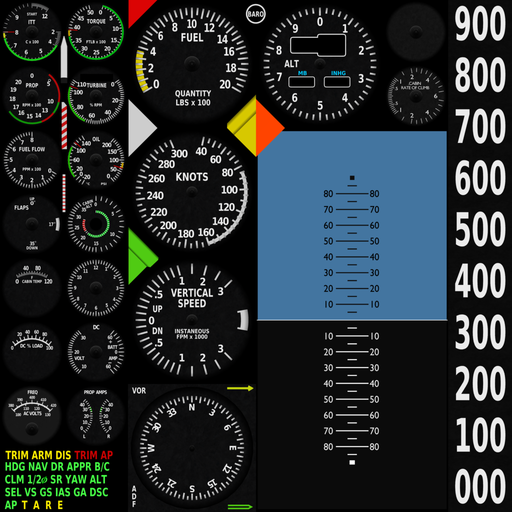
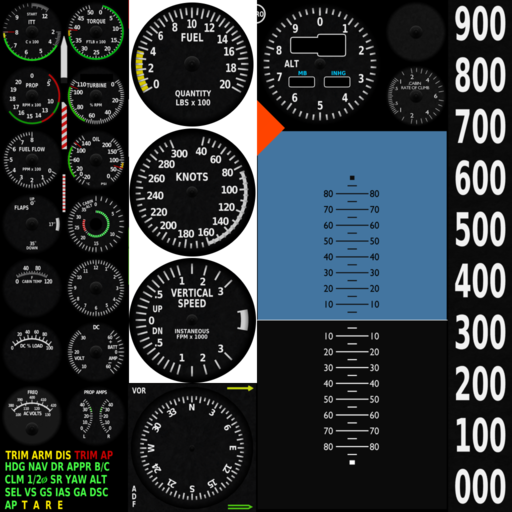
Bug fixing after testing on a smaller screen. Cleaning the information messages.

diff --git a/FlightGearMap/src/com/juanvvc/flightgear/PanelListActivity.java b/FlightGearMap/src/com/juanvvc/flightgear/PanelListActivity.java
@@ -75,7 +75,7 @@ public class PanelListActivity extends Activity implements OnItemClickListener{
 	private static final boolean DEBUG_VERSION = true;
 	
 	// List of thumbnails of the distributions
-	private static final int[] THUMBS = {R.drawable.dist_simplemap, R.drawable.dist_onlymap, R.drawable.dist_c172, R.drawable.dist_c337, R.drawable.dist_c337, R.drawable.dist_comms, R.drawable.dist_single, R.drawable.dist_basic};
+	private static final int[] THUMBS = {R.drawable.dist_simplemap, R.drawable.dist_onlymap, R.drawable.dist_c172, R.drawable.dist_c337, R.drawable.dist_b1900d, R.drawable.dist_comms, R.drawable.dist_single, R.drawable.dist_basic};
 	// List of labels
 	private static final int[] THUMBS_LABELS = {R.string.dist_simplemap, R.string.dist_onlymap, R.string.dist_c172, R.string.dist_c337, R.string.dist_b1900d, R.string.dist_comms, R.string.single_instrument, R.string.basic_instruments};
 
@@ -242,10 +242,10 @@ public class PanelListActivity extends Activity implements OnItemClickListener{
         WifiInfo wifiInfo = wifiManager.getConnectionInfo();
         int ipAddress = wifiInfo.getIpAddress();
         
-        StringBuffer txt = new StringBuffer("");
+        String txt = null;
         
         if (ipAddress == 0) {
-        	txt.append(getString(R.string.network_not_detected));
+        	txt = getString(R.string.network_not_detected);
         } else {
         	// convert Ip to a readable IP
 	        String readableIP = String.format("%d.%d.%d.%d",
@@ -255,13 +255,14 @@ public class PanelListActivity extends Activity implements OnItemClickListener{
 	        		(ipAddress >> 24 & 0xff));
 	        
 	        // add information about my IP
-	        txt.append(getString(R.string.myip).replaceFirst("%", readableIP));
+	        txt = getString(R.string.myip).replaceFirst("%", readableIP);
         }
         
         TextView tv = (TextView) this.findViewById(R.id.ipinfo);
-        tv.setText(txt);
         // clickable links
     	tv.setMovementMethod(LinkMovementMethod.getInstance());
+        tv.setText(txt);
+        MyLog.i(this, txt);
 	}
 	
 	/** The Adapter of the available distributions */

diff --git a/FlightGearMap/src/com/juanvvc/flightgear/PanelActivity.java b/FlightGearMap/src/com/juanvvc/flightgear/PanelActivity.java
@@ -35,6 +35,7 @@ import com.juanvvc.flightgear.maps.DatabaseHelper;
 import com.juanvvc.flightgear.maps.MapOverlay;
 import com.juanvvc.flightgear.maps.SolidTileSource;
 import com.juanvvc.flightgear.panels.PanelView;
+import com.juanvvc.flightgear.panels.PanelView.Distribution;
 
 /** Shows a panel with only instruments.
  * @author juanvi
@@ -72,6 +73,8 @@ public class PanelActivity extends Activity {
 	private boolean show_airports = true;
 	/** If set, show the navaids on the map */
 	private boolean show_navaids = true;
+	/** The configuration file in the remote fgfs */
+	private String andatlas = "andatlas";
 	
     /** Called when the activity is first created. */
     @Override
@@ -309,6 +312,13 @@ public class PanelActivity extends Activity {
     	panelView.setVisibility(View.VISIBLE);
     	panelView.setDistribution(this.distribution);
     	panelView.invalidate();
+    	
+    	// Select the configuration file
+    	if (this.distribution == Distribution.B1900D_INSTRUMENTS) {
+    		andatlas = "andatlas-b1900d";
+    	} else {
+    		andatlas = "andatlas";
+    	}
 
     	if (this.calibratableManager != null) {
     		this.calibratableManager.empty();
@@ -569,7 +579,7 @@ public class PanelActivity extends Activity {
 			        		(ipAddress >> 24 & 0xff));
 			        
 			        // add information about fgfs+++
-			        txt = txt + getString(R.string.run_fgfs_using) + " --generic=socket,out,10," + readableIP + "," + udpPort + ",udp,andatlas --telnet=" + telnetPort;
+			        txt = txt + getString(R.string.run_fgfs_using) + " --generic=socket,out,10," + readableIP + "," + udpPort + ",udp," + andatlas + " --telnet=socket,in,20,," + telnetPort + ",tcp";
 			        
 			        // show the dialog on screen
 					currentDialog = new AlertDialog.Builder(PanelActivity.this).setIcon(R.drawable.ic_launcher)

diff --git a/FlightGearMap/src/com/juanvvc/flightgear/panels/Cessna172.java b/FlightGearMap/src/com/juanvvc/flightgear/panels/Cessna172.java
@@ -9,6 +9,7 @@ import android.graphics.Canvas;
 import android.graphics.Color;
 import android.graphics.Matrix;
 import android.graphics.Paint;
+import android.graphics.Paint.Align;
 import android.graphics.Rect;
 import android.graphics.Typeface;
 import android.preference.PreferenceManager;
@@ -167,7 +168,7 @@ public class Cessna172 {
 			return new Instrument(col, row, context, new Surface[] {
 					new StaticSurface(new MyBitmap("dme.png", 0, 0, 512, 216), 0, 0),
 					new DMENumber(null, 10, 120, PlaneData.DME, face),
-					new DMENumber(null, 228, 120, PlaneData.DME_SPEED, face)
+					new DMENumber(null, 240, 120, PlaneData.DME_SPEED, face)
 			});
 		case MAGNETS_STARTER:
 			return new Instrument(col, row, context, new Surface[] {
@@ -198,7 +199,7 @@ public class Cessna172 {
 		case CLOCK:
 			return new Instrument(col, row, context, new Surface[] {
 					new StaticSurface(new MyBitmap("clock.png", -1, -1, -1, -1), 0, 20),
-					new ClockNumber(null, PlaneData.SECONDS, 40, 120, face)
+					new ClockNumber(null, PlaneData.SECONDS, 256, 120, face)
 			});
 		default:
 			MyLog.w(Cessna172.class.getSimpleName(), "Instrument not available: " + type);
@@ -597,6 +598,7 @@ class ClockNumber extends StaticSurface {
 		font.setColor(Color.RED);
 		font.setTypeface(this.face);
 		font.setTextSize((parent.getScale() * parent.getGridSize()) / 16); // 8); //bitmap.getScaledBitmap().getHeight());
+		font.setTextAlign(Align.CENTER);
 		
 		sb = new StringBuffer();
 	}

diff --git a/FlightGearMap/src/com/juanvvc/flightgear/CommsActivity.java b/FlightGearMap/src/com/juanvvc/flightgear/CommsActivity.java
@@ -546,7 +546,7 @@ public class CommsActivity extends Activity implements OnClickListener {
 									}).show();
 				} else {
 					// add information about fgfs+++
-					txt = txt + getString(R.string.run_fgfs_using) + " --telnet=" + telnetPort;
+					txt = txt + getString(R.string.run_fgfs_using) + " --telnet=socket,in,20,," + telnetPort + ",tcp";
 
 					// show the dialog on screen
 					currentDialog = new AlertDialog.Builder(CommsActivity.this)

diff --git a/FlightGearMap/src/com/juanvvc/flightgear/panels/B1900D.java b/FlightGearMap/src/com/juanvvc/flightgear/panels/B1900D.java
@@ -127,6 +127,9 @@ public class B1900D {
 		instruments.add(B1900D.createInstrument(InstrumentType.FUELFLOW, context, 4, 2));
 		instruments.add(B1900D.createInstrument(InstrumentType.OIL_PRESS, context, 4, 2.5f));
 		
+		instruments.add(Cessna172.createInstrument(InstrumentType.TURN_RATE, context, 1, 2));
+		instruments.add(Cessna172.createInstrument(InstrumentType.TRIMFLAPS, context, 3, 2.5f));
+
 		return instruments;
 	}
 }
